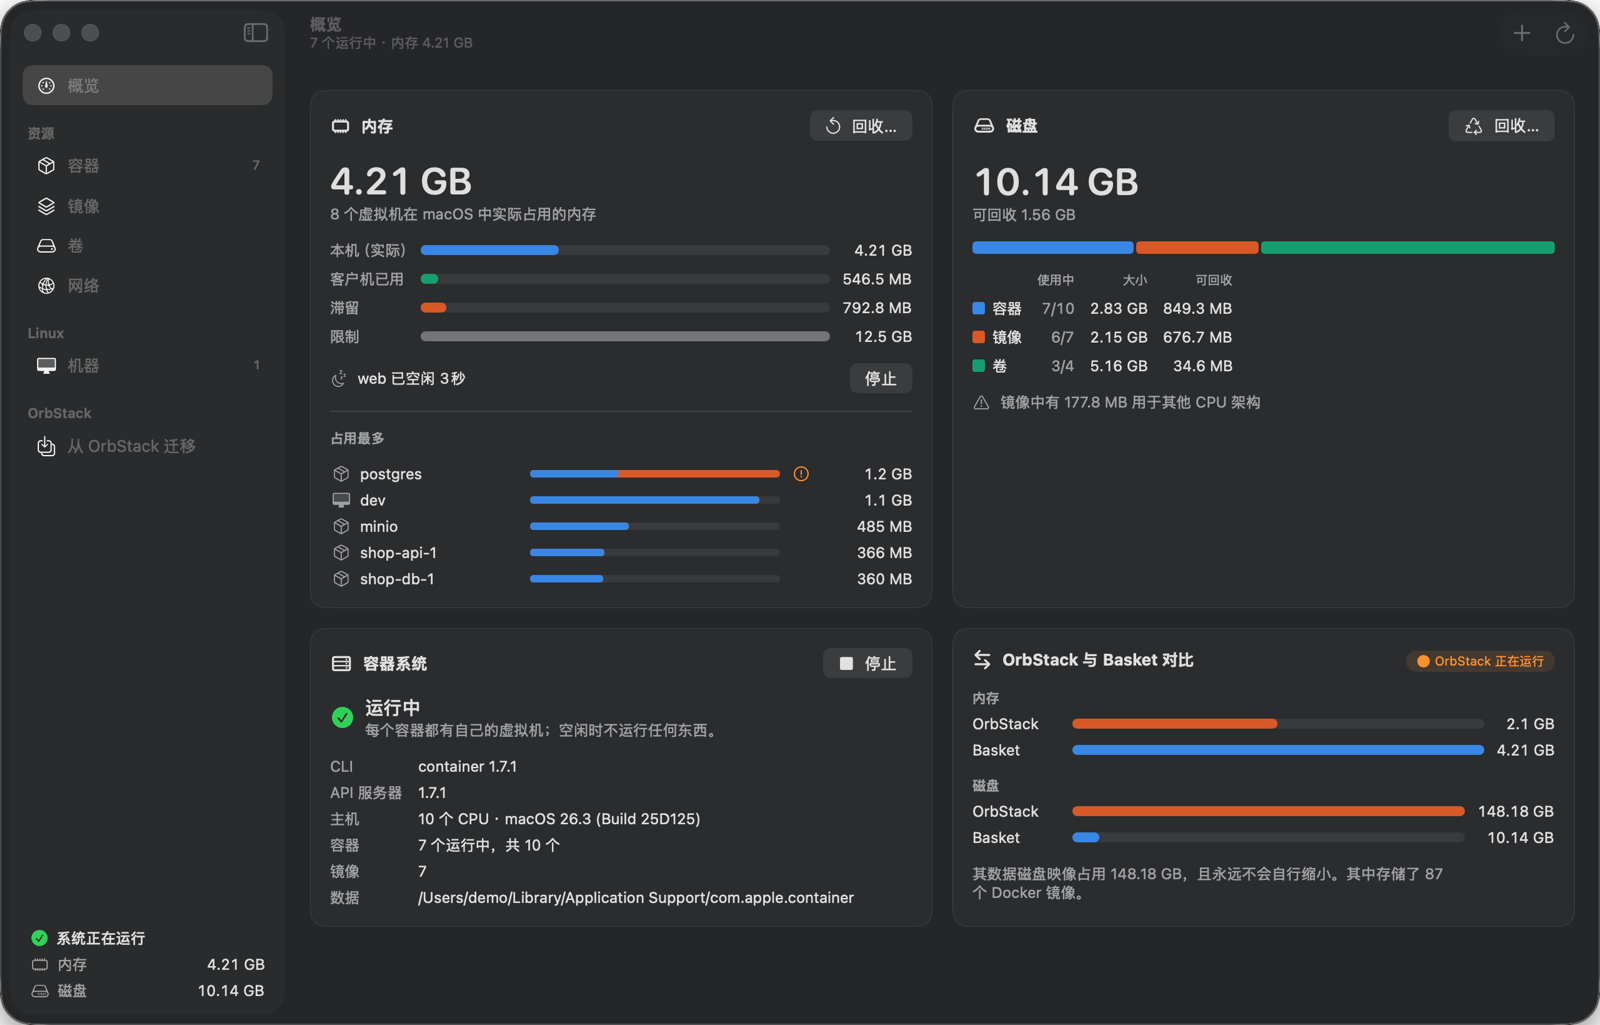
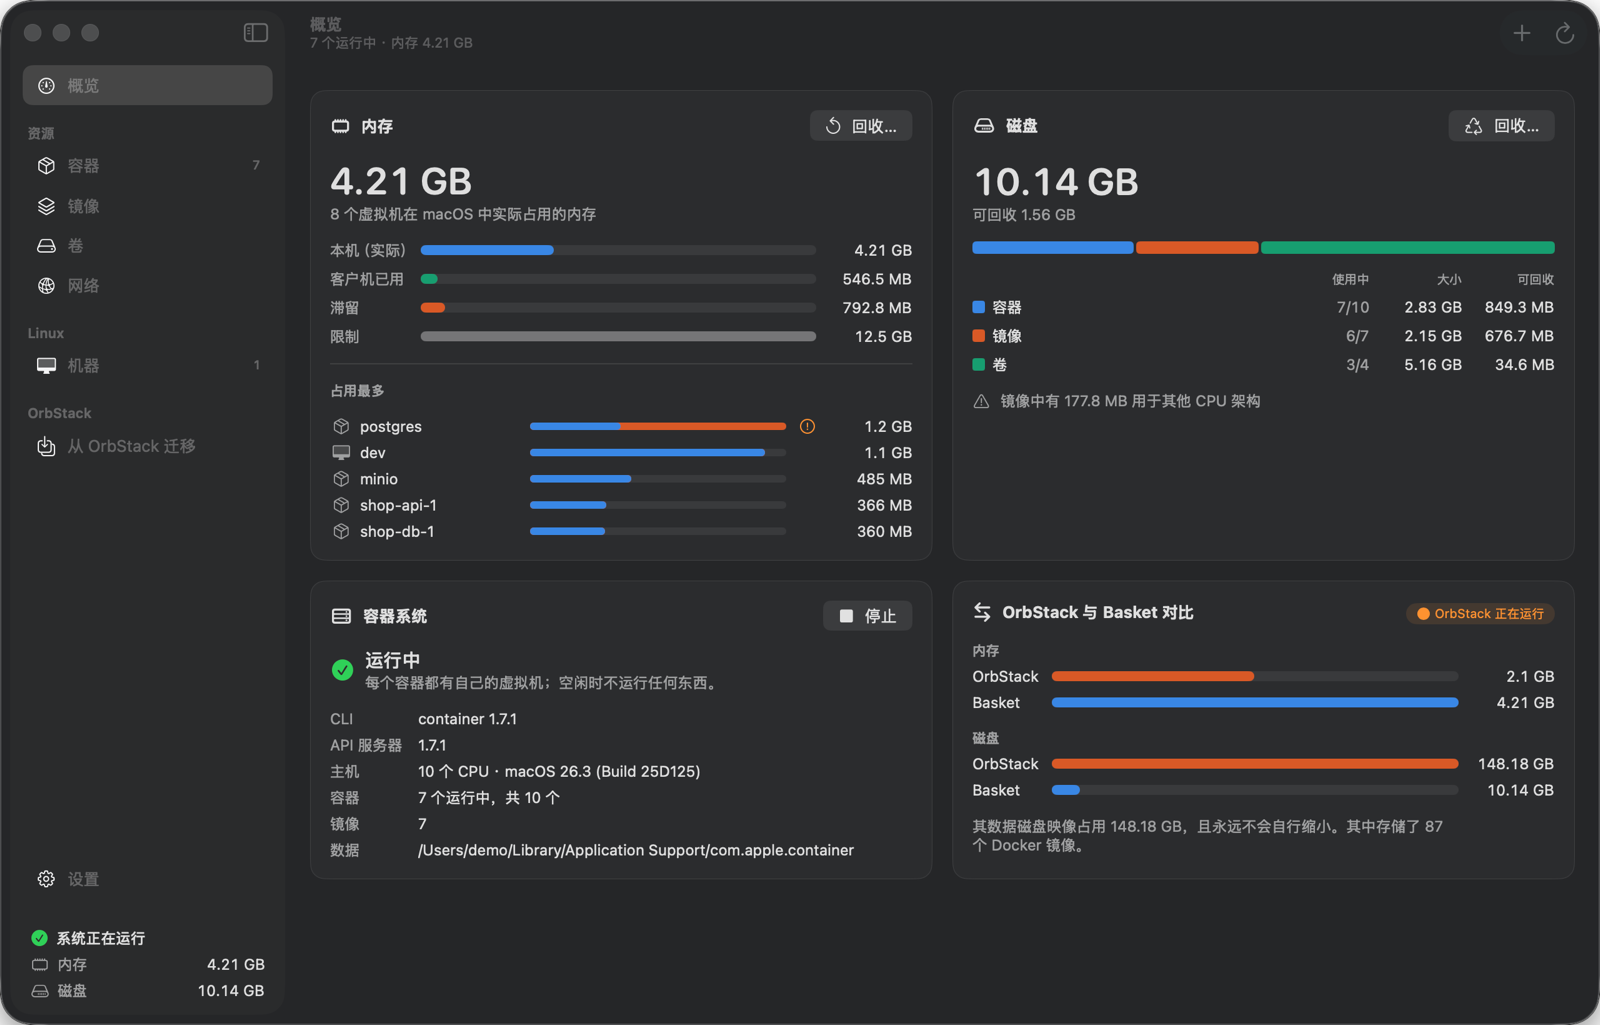
chore(release): v0.0.3 (#37)
Cut the 0.0.3 changelog section (settings in the sidebar, inspect JSON highlighting, disk card layout), refresh the English and Chinese README screenshots and log the iteration.

diff --git a/docs/EVOLUTION.md b/docs/EVOLUTION.md
@@ -117,6 +117,18 @@ and disk first) → implement → verify. Findings and decisions are logged here
   macOS's first-launch check of every new executable serializing fake CLIs (#20) — the whole
   suite went from ~12 s to ~3 s.
 
+### 0.0.3 — feedback round (2026-11-21)
+- Maintainer feedback turned straight into issues and PRs: Settings moved into the sidebar with
+  the language picker first (#30; live switching was tried and rejected — only plain SwiftUI text
+  follows a locale override, ~650 code-built strings and AppKit menus don't, so Basket offers a
+  one-click relaunch instead); the Disk card's breakdown now spans the card (#31) and a new AX
+  rule, `card-trailing-alignment`, catches value columns that stop short of a card's edge;
+  inspect JSON is tidied and highlighted with WCAG-AA system colours and ⌘F (#32).
+- E2E lessons: an installed Basket with the same bundle id makes a second instance hang
+  (issue #29), and a locked screen blocks LaunchServices-launched apps too — both looked alike.
+- CI caught another wall-clock test (5 MB formatting under 3 s): timing tests now check
+  scaling ratios, not absolute time.
+
 ## Research notes
 - Compose: apple/container has no official Compose (PR #398 proposes it, unmerged as of 2026-10).
   Third-party: `container-compose` (mcrich23), `apple-compose` (Go). Known gap: service-name DNS on

diff --git a/CHANGELOG.md b/CHANGELOG.md
@@ -9,6 +9,8 @@ next patch. Expect breaking changes until `0.1.0`.
 
 ## [Unreleased]
 
+## [0.0.3] - 2026-11-21
+
 ### Added
 
 - Inspect: the JSON of containers and images is tidied (two-space indentation, `"key": value`,
@@ -116,6 +118,7 @@ The first public version.
   discovered at build time and never hard-coded. Terminal shells open through self-deleting
   `.command` files with shell-quoted arguments.
 
-[Unreleased]: https://github.com/Kilerd/basket/compare/v0.0.2...HEAD
+[Unreleased]: https://github.com/Kilerd/basket/compare/v0.0.3...HEAD
+[0.0.3]: https://github.com/Kilerd/basket/compare/v0.0.2...v0.0.3
 [0.0.2]: https://github.com/Kilerd/basket/compare/v0.0.1...v0.0.2
 [0.0.1]: https://github.com/Kilerd/basket/releases/tag/v0.0.1
